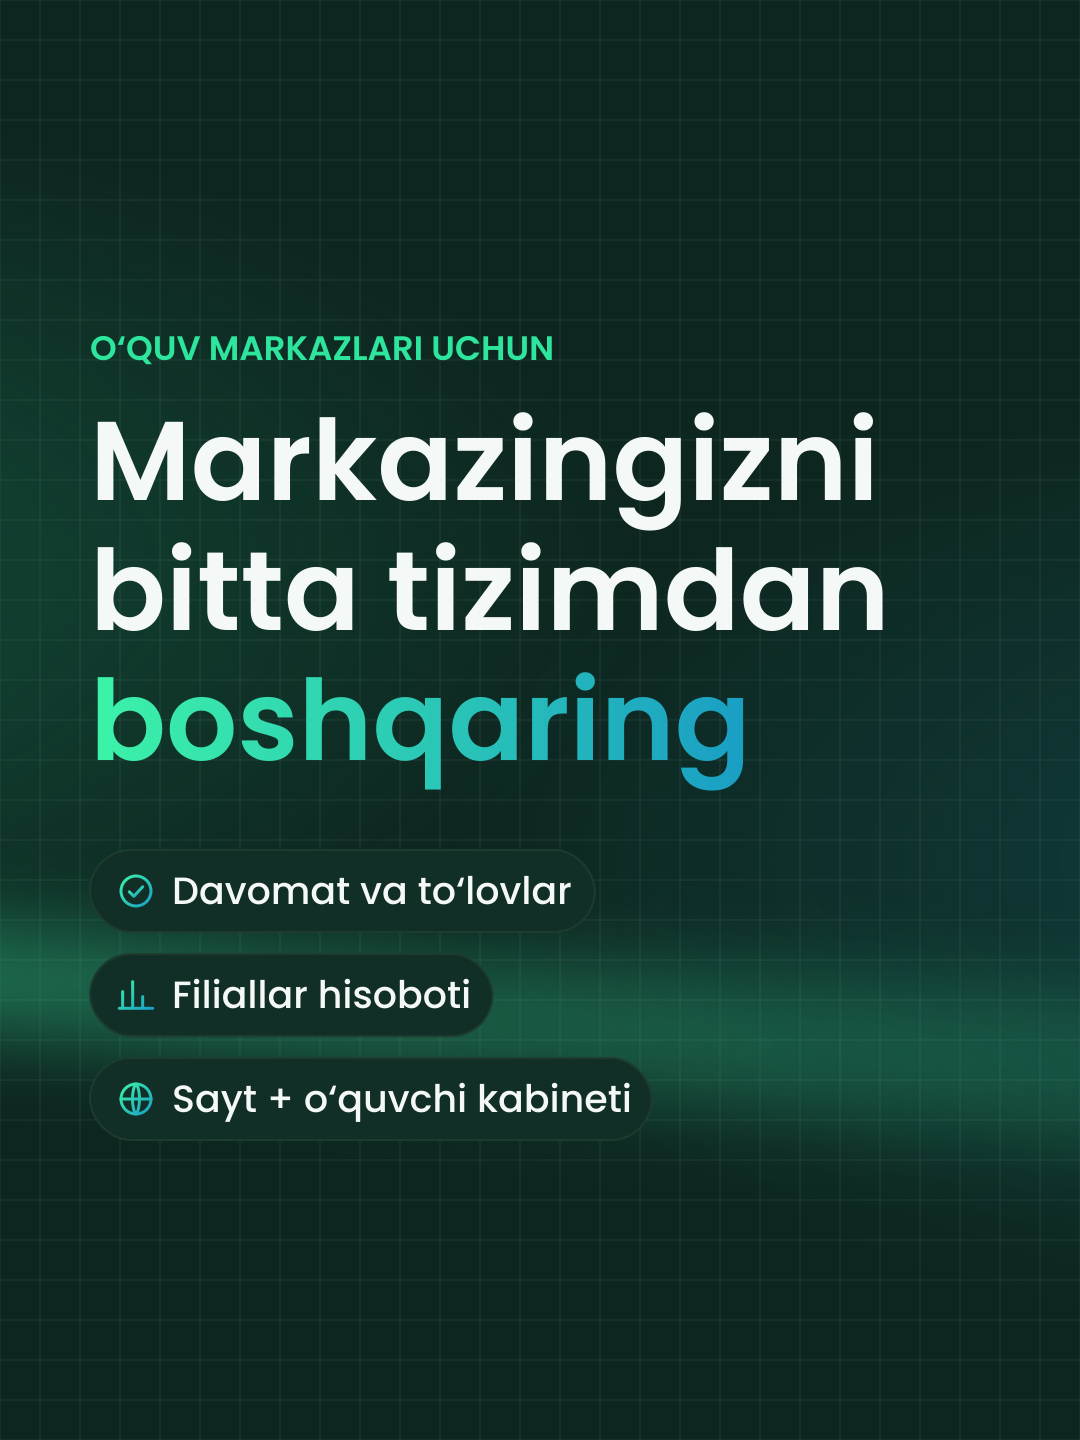
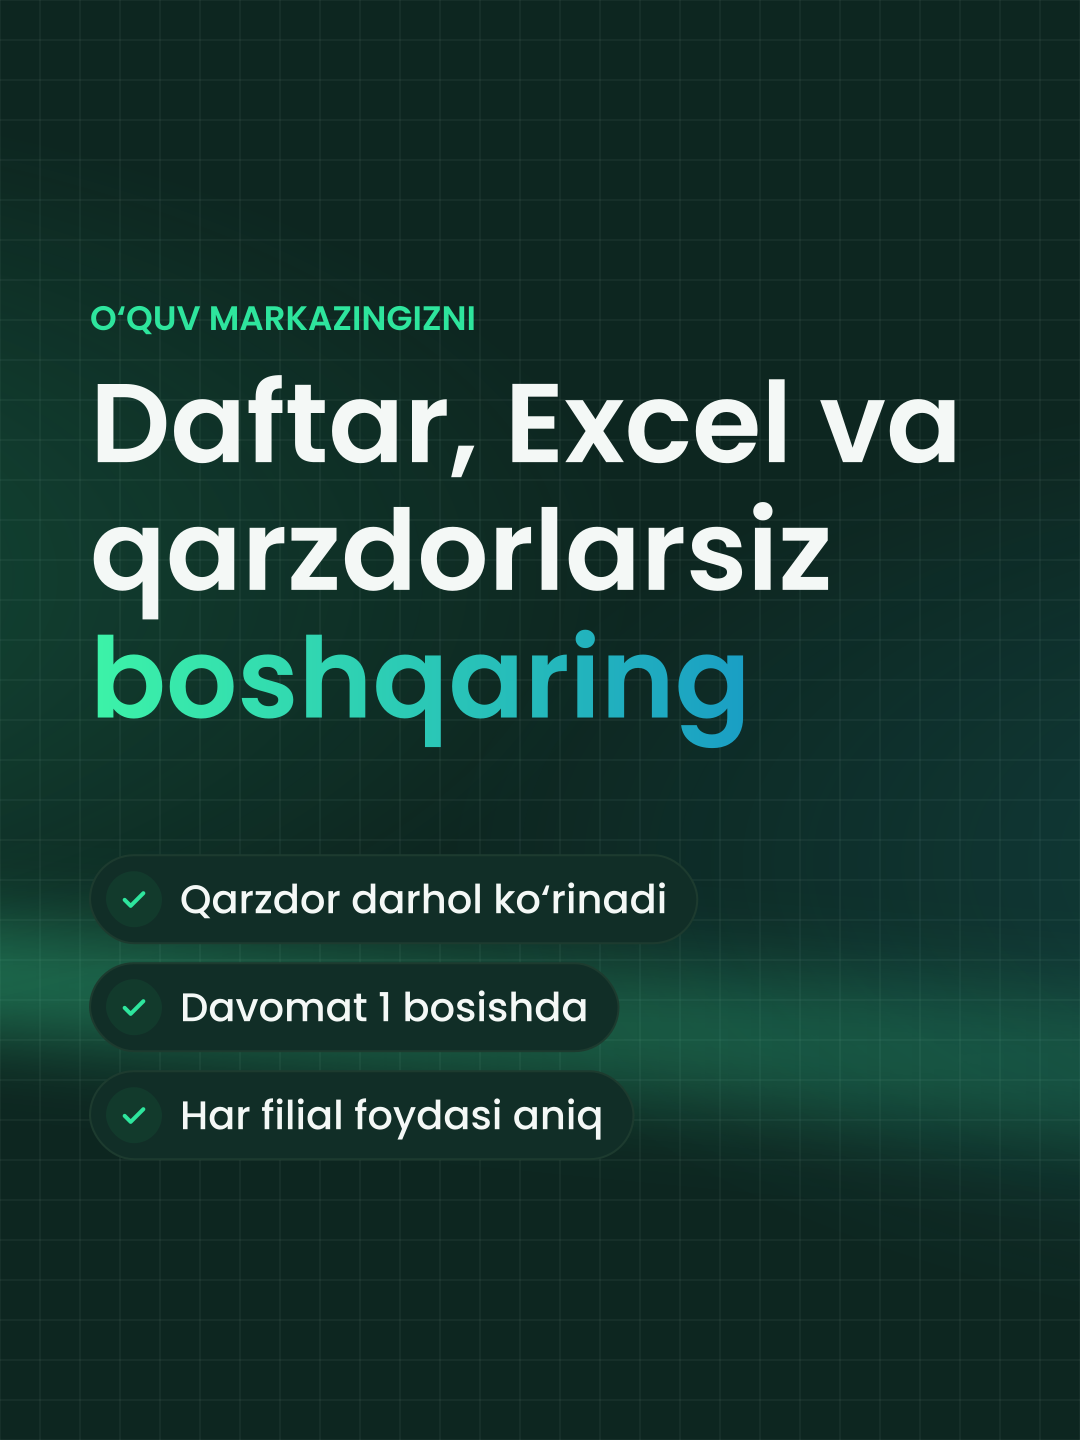
Instagram muqova: kim uchun, muammo, natija va taklif
Claude-Session: https://claude.ai/code/session_01FWUt8wnCS76XNeuVvzXBtM

Changed region(s): [[0.0611, 0.1875, 0.8861, 0.5625], [0.0917, 0.5938, 0.6111, 0.7812]]

diff --git a/brand/skriptlar/make_grid_cover.py b/brand/skriptlar/make_grid_cover.py
@@ -43,24 +43,29 @@ b += f'<image href="{MARK}" x="{540 - mw / 2 + 10:.1f}" y="170" width="{mw:.1f}"
 wsz = 150
 w1 = SEMI.width("Markaz", wsz); w2 = SEMI.width("ly", wsz); wx = 540 - (w1 + w2) / 2
 b += T("Markaz", wx, 1145, wsz, SEMI, FG) + T("ly", wx + w1, 1145, wsz, SEMI, "url(#gh)")
-b += T("O‘quv markaz boshqaruv tizimi", 540, 1222, 40, REG, MUTED, "middle")
+b += T("O‘QUV MARKAZLARI UCHUN", 540, 1235, 50, SEMI, MINT, "middle")
 
-# ── tile 2: headline
+# ── tile 2: problem → result
 x2 = TW + 90
-b += T("O‘QUV MARKAZLARI UCHUN", x2, 360, 34, SEMI, MINT)
-b += T("Markazingizni", x2, 500, 112, SEMI, FG)
-b += T("bitta tizimdan", x2, 630, 112, SEMI, FG)
-b += T("boshqaring", x2, 760, 112, SEMI, "url(#gh)")
-chips = [("tick", "Davomat va to‘lovlar"), ("chart", "Filiallar hisoboti"), ("globe", "Sayt + o‘quvchi kabineti")]
-cy = 850
-for icn, t in chips:
-    w = REG.width(t, 38) + 110
-    b += rr(x2, cy, w, 82, 41, BOARD2, LINE, 2) + ic(icn, x2 + 26, cy + 21, 40) + T(t, x2 + 82, cy + 54, 38, MED, FG)
-    cy += 104
+maxw = TW - 180
+lines = [("Daftar, Excel va", FG), ("qarzdorlarsiz", FG), ("boshqaring", "url(#gh)")]
+hs = 112
+while max(SEMI.width(t, hs) for t, _ in lines) > maxw:
+    hs -= 2
+b += T("O‘QUV MARKAZINGIZNI", x2, 330, 34, SEMI, MINT)
+y = 330 + hs * 1.18
+for t, c in lines:
+    b += T(t, x2, y, hs, SEMI, c); y += hs * 1.14
+cy = y + 10
+for t in ["Qarzdor darhol ko‘rinadi", "Davomat 1 bosishda", "Har filial foydasi aniq"]:
+    w = MED.width(t, 40) + 120
+    b += rr(x2, cy, w, 88, 44, BOARD2, LINE, 2) + rr(x2 + 16, cy + 16, 56, 56, 28, "#123A2C") + ic("check", x2 + 28, cy + 28, 32, MINT, 3) + T(t, x2 + 90, cy + 58, 40, MED, FG)
+    cy += 108
 
 # ── tile 3: phone + offer
-px, py, pw = 2 * TW + 290, 230, 500
-b += rr(px - 12, py - 12, pw + 24, 904, 70, "#020806") + rr(px, py, pw, 880, 58, SURF)
+px, py, pw = 2 * TW + 290, 300, 500
+b += T("Sayt + o‘quvchi kabineti", 2 * TW + 540, 200, 46, SEMI, FG, "middle")
+b += rr(px - 12, py - 12, pw + 24, 834, 70, "#020806") + rr(px, py, pw, 810, 58, SURF)
 b += rr(px + pw / 2 - 75, py + 20, 150, 28, 14, "#020806")
 b += f'<circle cx="{px+60}" cy="{py+104}" r="30" fill="url(#g)"/>' + T("A", px + 60, py + 117, 30, SEMI, INK, "middle")
 b += T("B1 guruh", px + 106, py + 94, 22, REG, MUTED) + T("Aziza Sobirova", px + 106, py + 128, 28, SEMI, FG)
@@ -76,12 +81,13 @@ b += rr(px + 24, cy + 4, pw - 48, 110, 24, SURF2)
 b += T("Shu oy davomati", px + 48, cy + 50, 24, REG, MUTED) + T("92%", px + pw - 48, cy + 52, 30, SEMI, FG, "end")
 b += rr(px + 48, cy + 74, pw - 96, 14, 7, LINE) + rr(px + 48, cy + 74, (pw - 96) * .92, 14, 7, MINT)
 # offer badge overlapping the phone
-b += rr(2 * TW + 140, 1000, 800, 150, 75, "url(#gh)")
-b += T("7 kun bepul sinov", 2 * TW + 540, 1095, 54, SEMI, INK, "middle")
-b += T("@markazly.uz", 2 * TW + 540, 1225, 36, MED, FG, "middle")
+b += rr(2 * TW + 120, 1040, 840, 170, 85, "url(#gh)")
+b += T("7 kun bepul", 2 * TW + 540, 1118, 62, SEMI, INK, "middle")
+b += T("3 daqiqada boshlang", 2 * TW + 540, 1174, 36, MED, "#0A3D27", "middle")
+b += T("@markazly.uz", 2 * TW + 540, 1290, 36, MED, FG, "middle")
 # toast across the 2→3 seam? keep text off seams: place it fully inside tile 3
-b += rr(2 * TW + 40, 560, 330, 108, 24, FG) + rr(2 * TW + 60, 582, 64, 64, 18, MINT) + ic("check", 2 * TW + 76, 598, 32, INK, 3)
-b += T("To‘lov qabul", 2 * TW + 140, 610, 26, SEMI, INK) + T("590 000 so‘m", 2 * TW + 140, 646, 24, REG, "#3F5A4D")
+b += rr(2 * TW + 40, 600, 330, 108, 24, FG) + rr(2 * TW + 60, 622, 64, 64, 18, MINT) + ic("check", 2 * TW + 76, 638, 32, INK, 3)
+b += T("To‘lov qabul", 2 * TW + 140, 650, 26, SEMI, INK) + T("590 000 so‘m", 2 * TW + 140, 686, 24, REG, "#3F5A4D")
 
 from PIL import ImageDraw, ImageFilter
 import io
